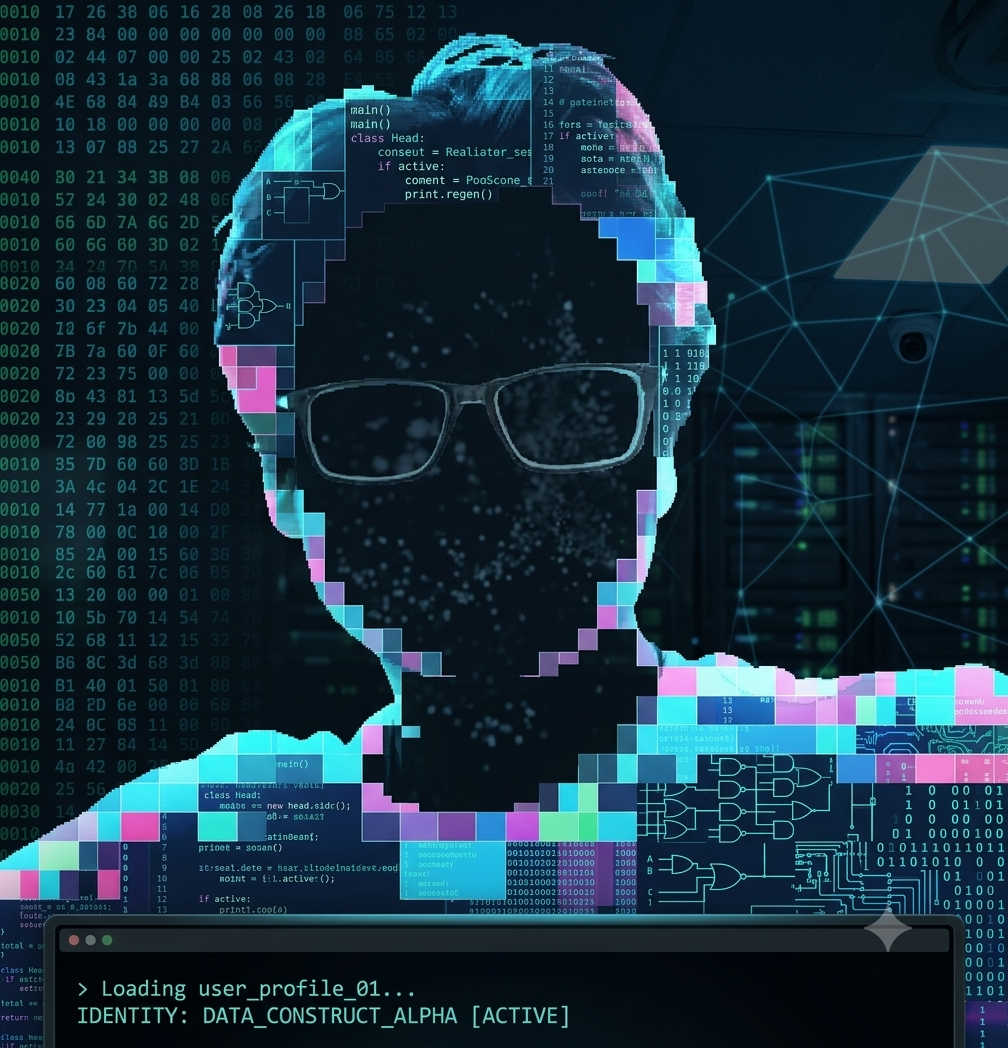
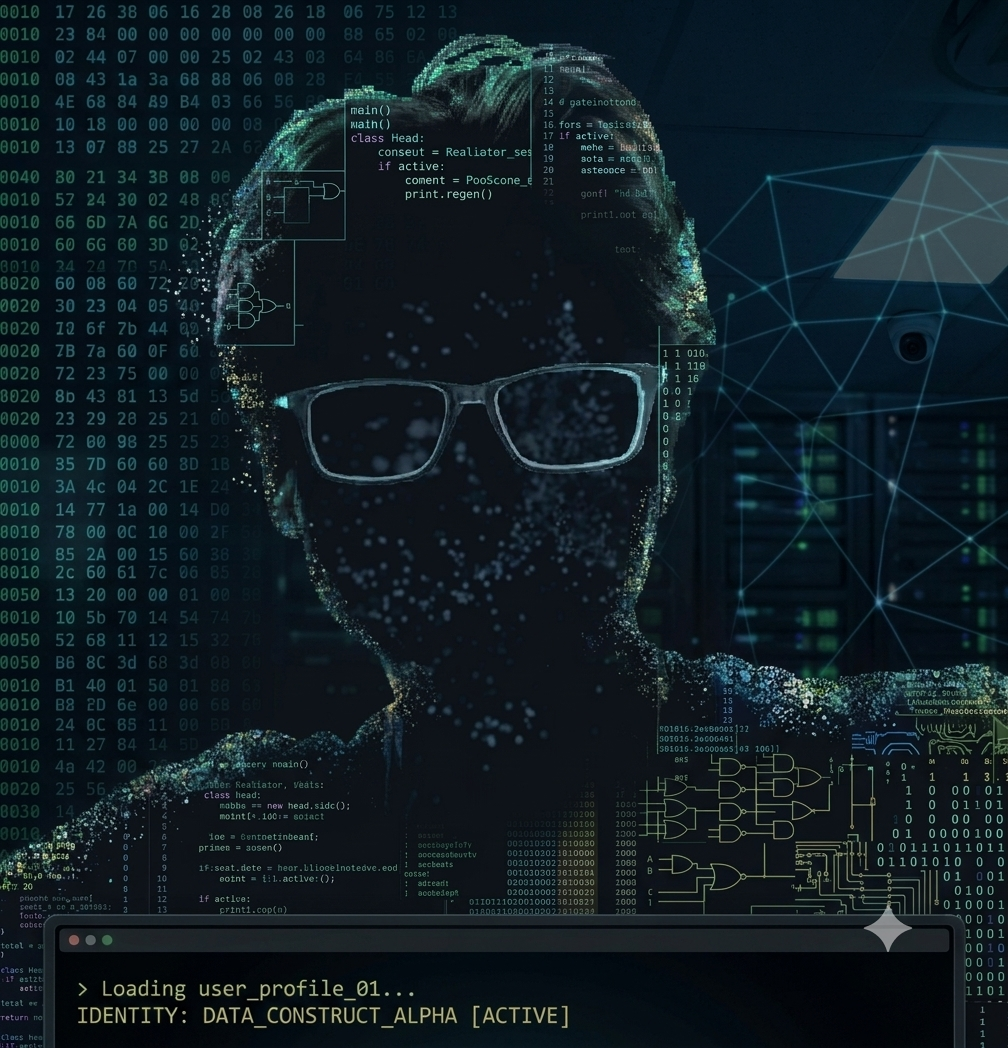
upgrade this readme

Changed region(s): [[0.0, 0.0305, 1.0, 1.0], [0.0615, 0.916, 0.5536, 0.9771]]

diff --git a/README.md b/README.md
@@ -35,7 +35,7 @@ devansh@github:~$ _
 
 <br><br>
 
-<img src="./assets/por1.jpg" width="700" alt="Pixel glitch portrait">
+<img src="./assets/por2.jpg" width="700" alt="Pixel glitch portrait">
 
 <p><i>"Better questions, better answers — a slightly sharper version of me every commit."</i></p>
 <p><sub>Working hard for a better future</sub></p>
